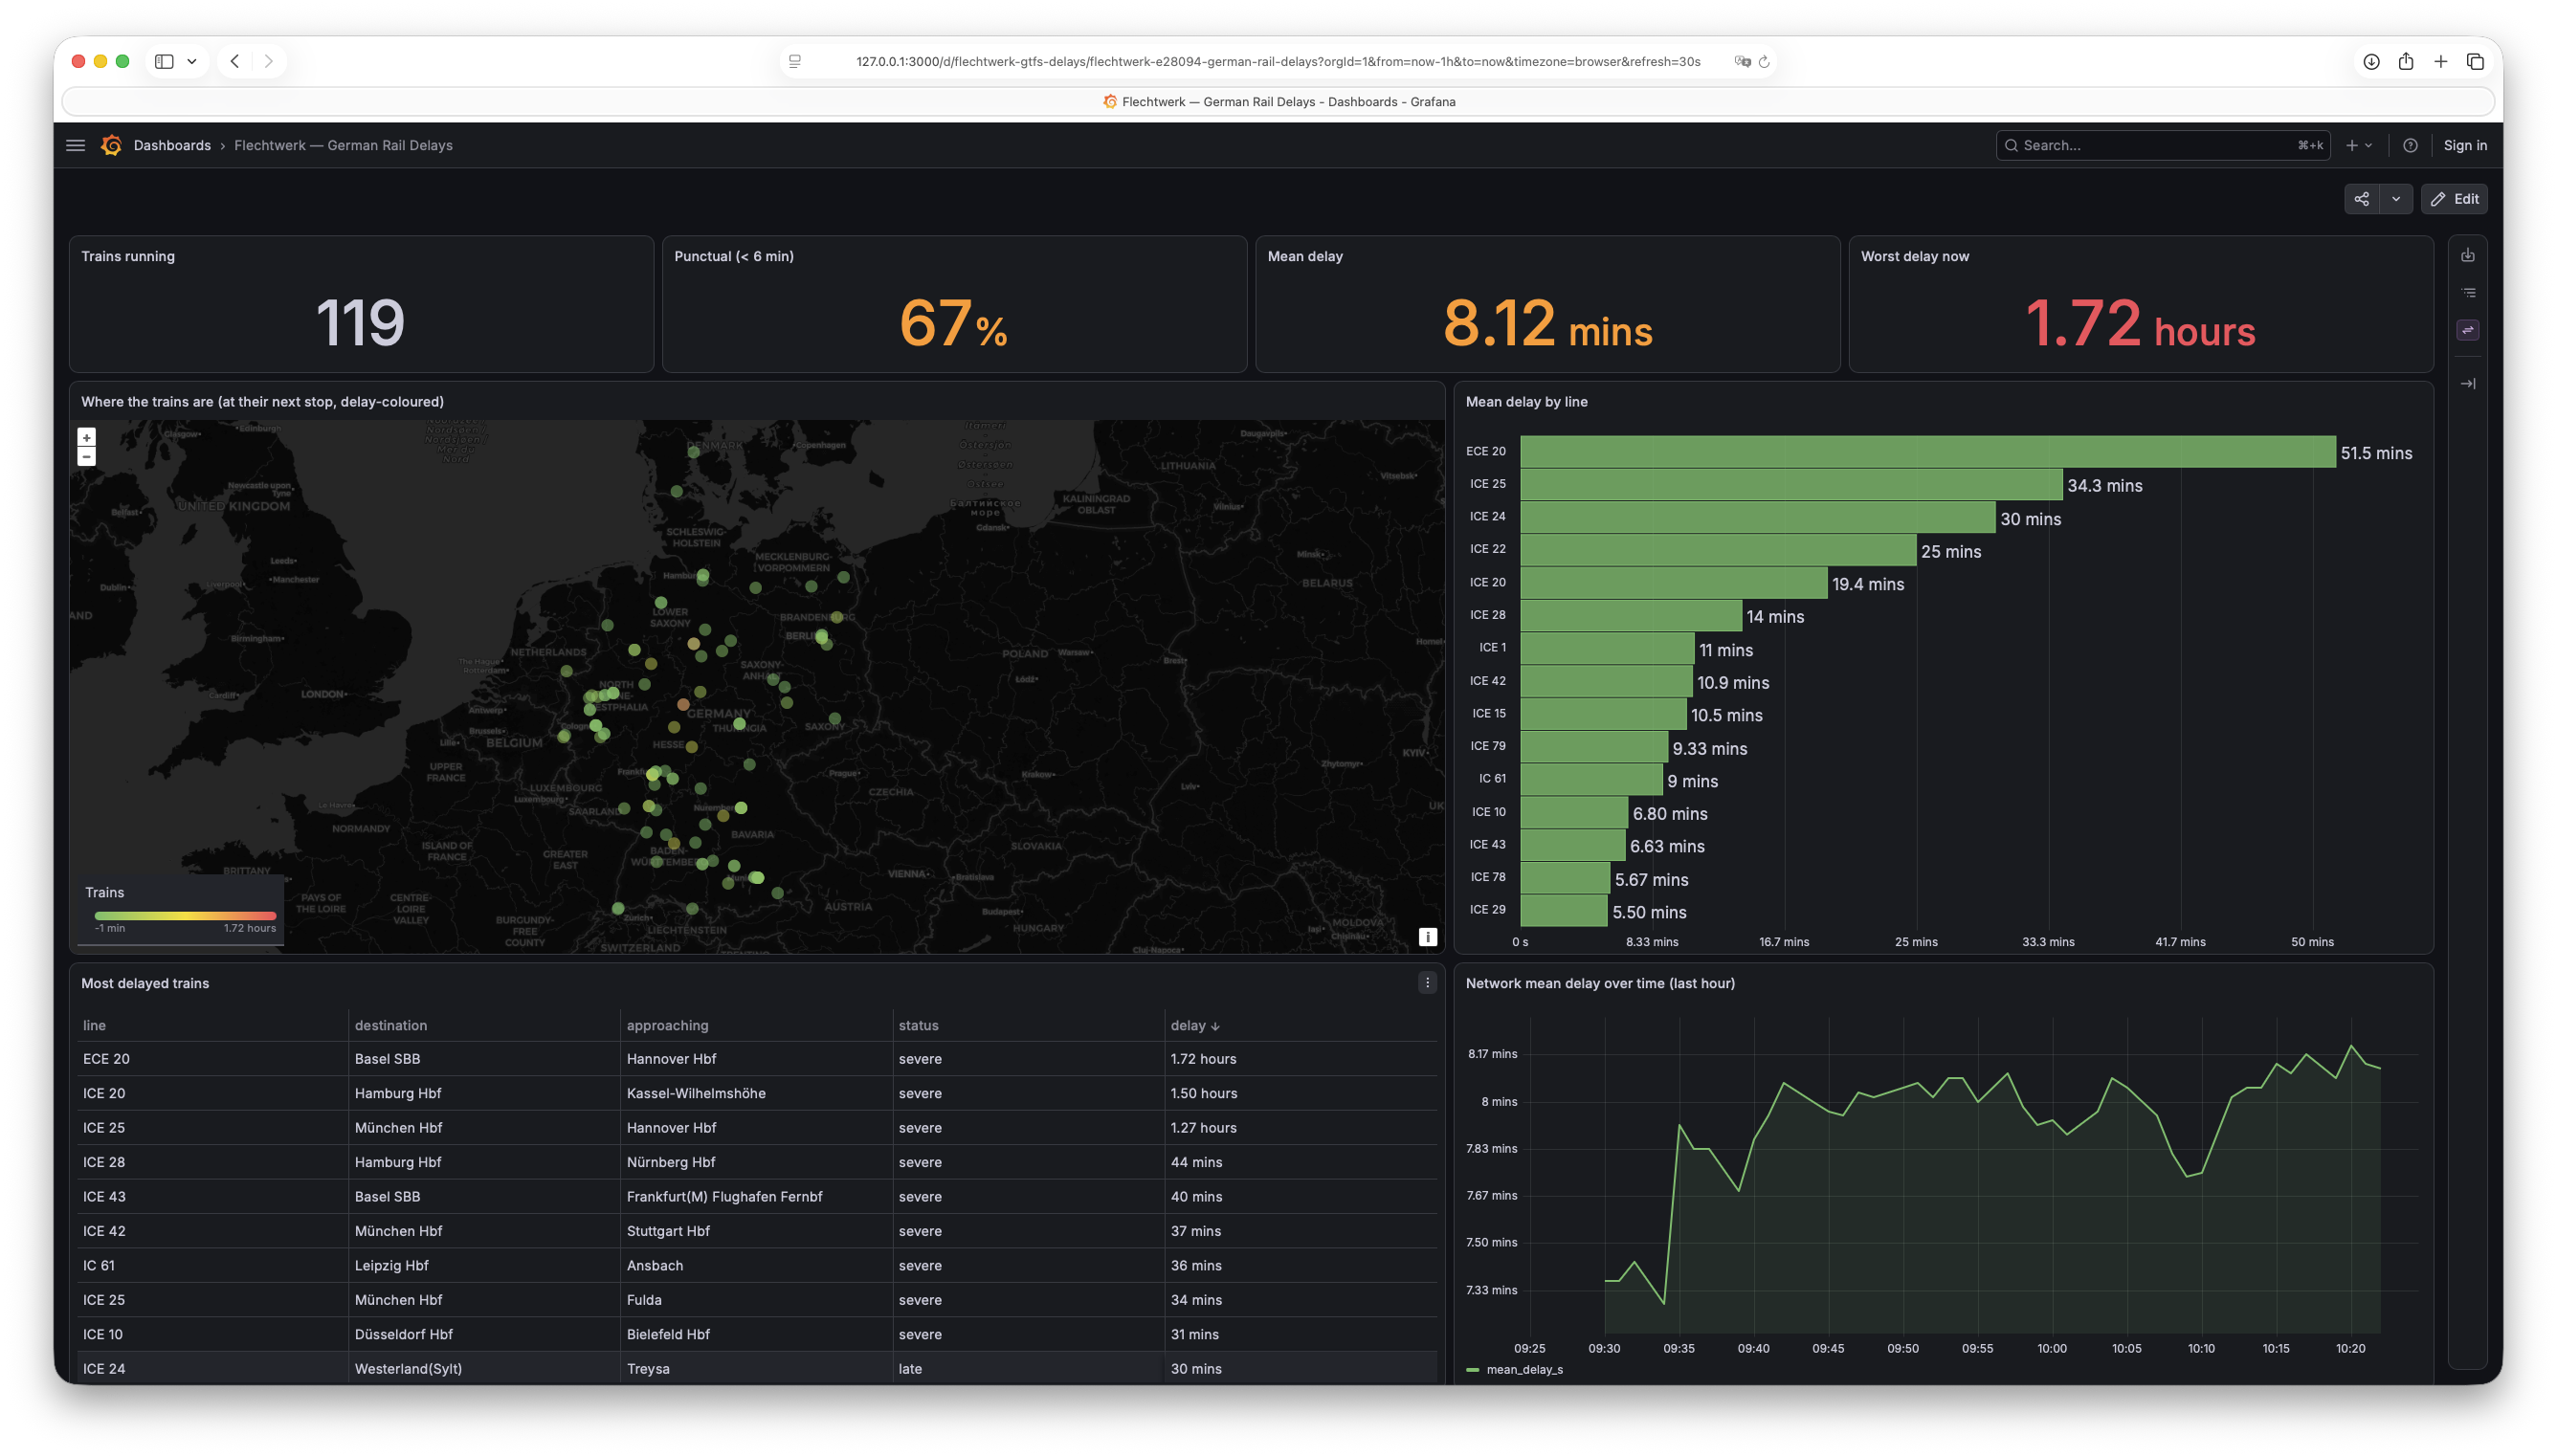
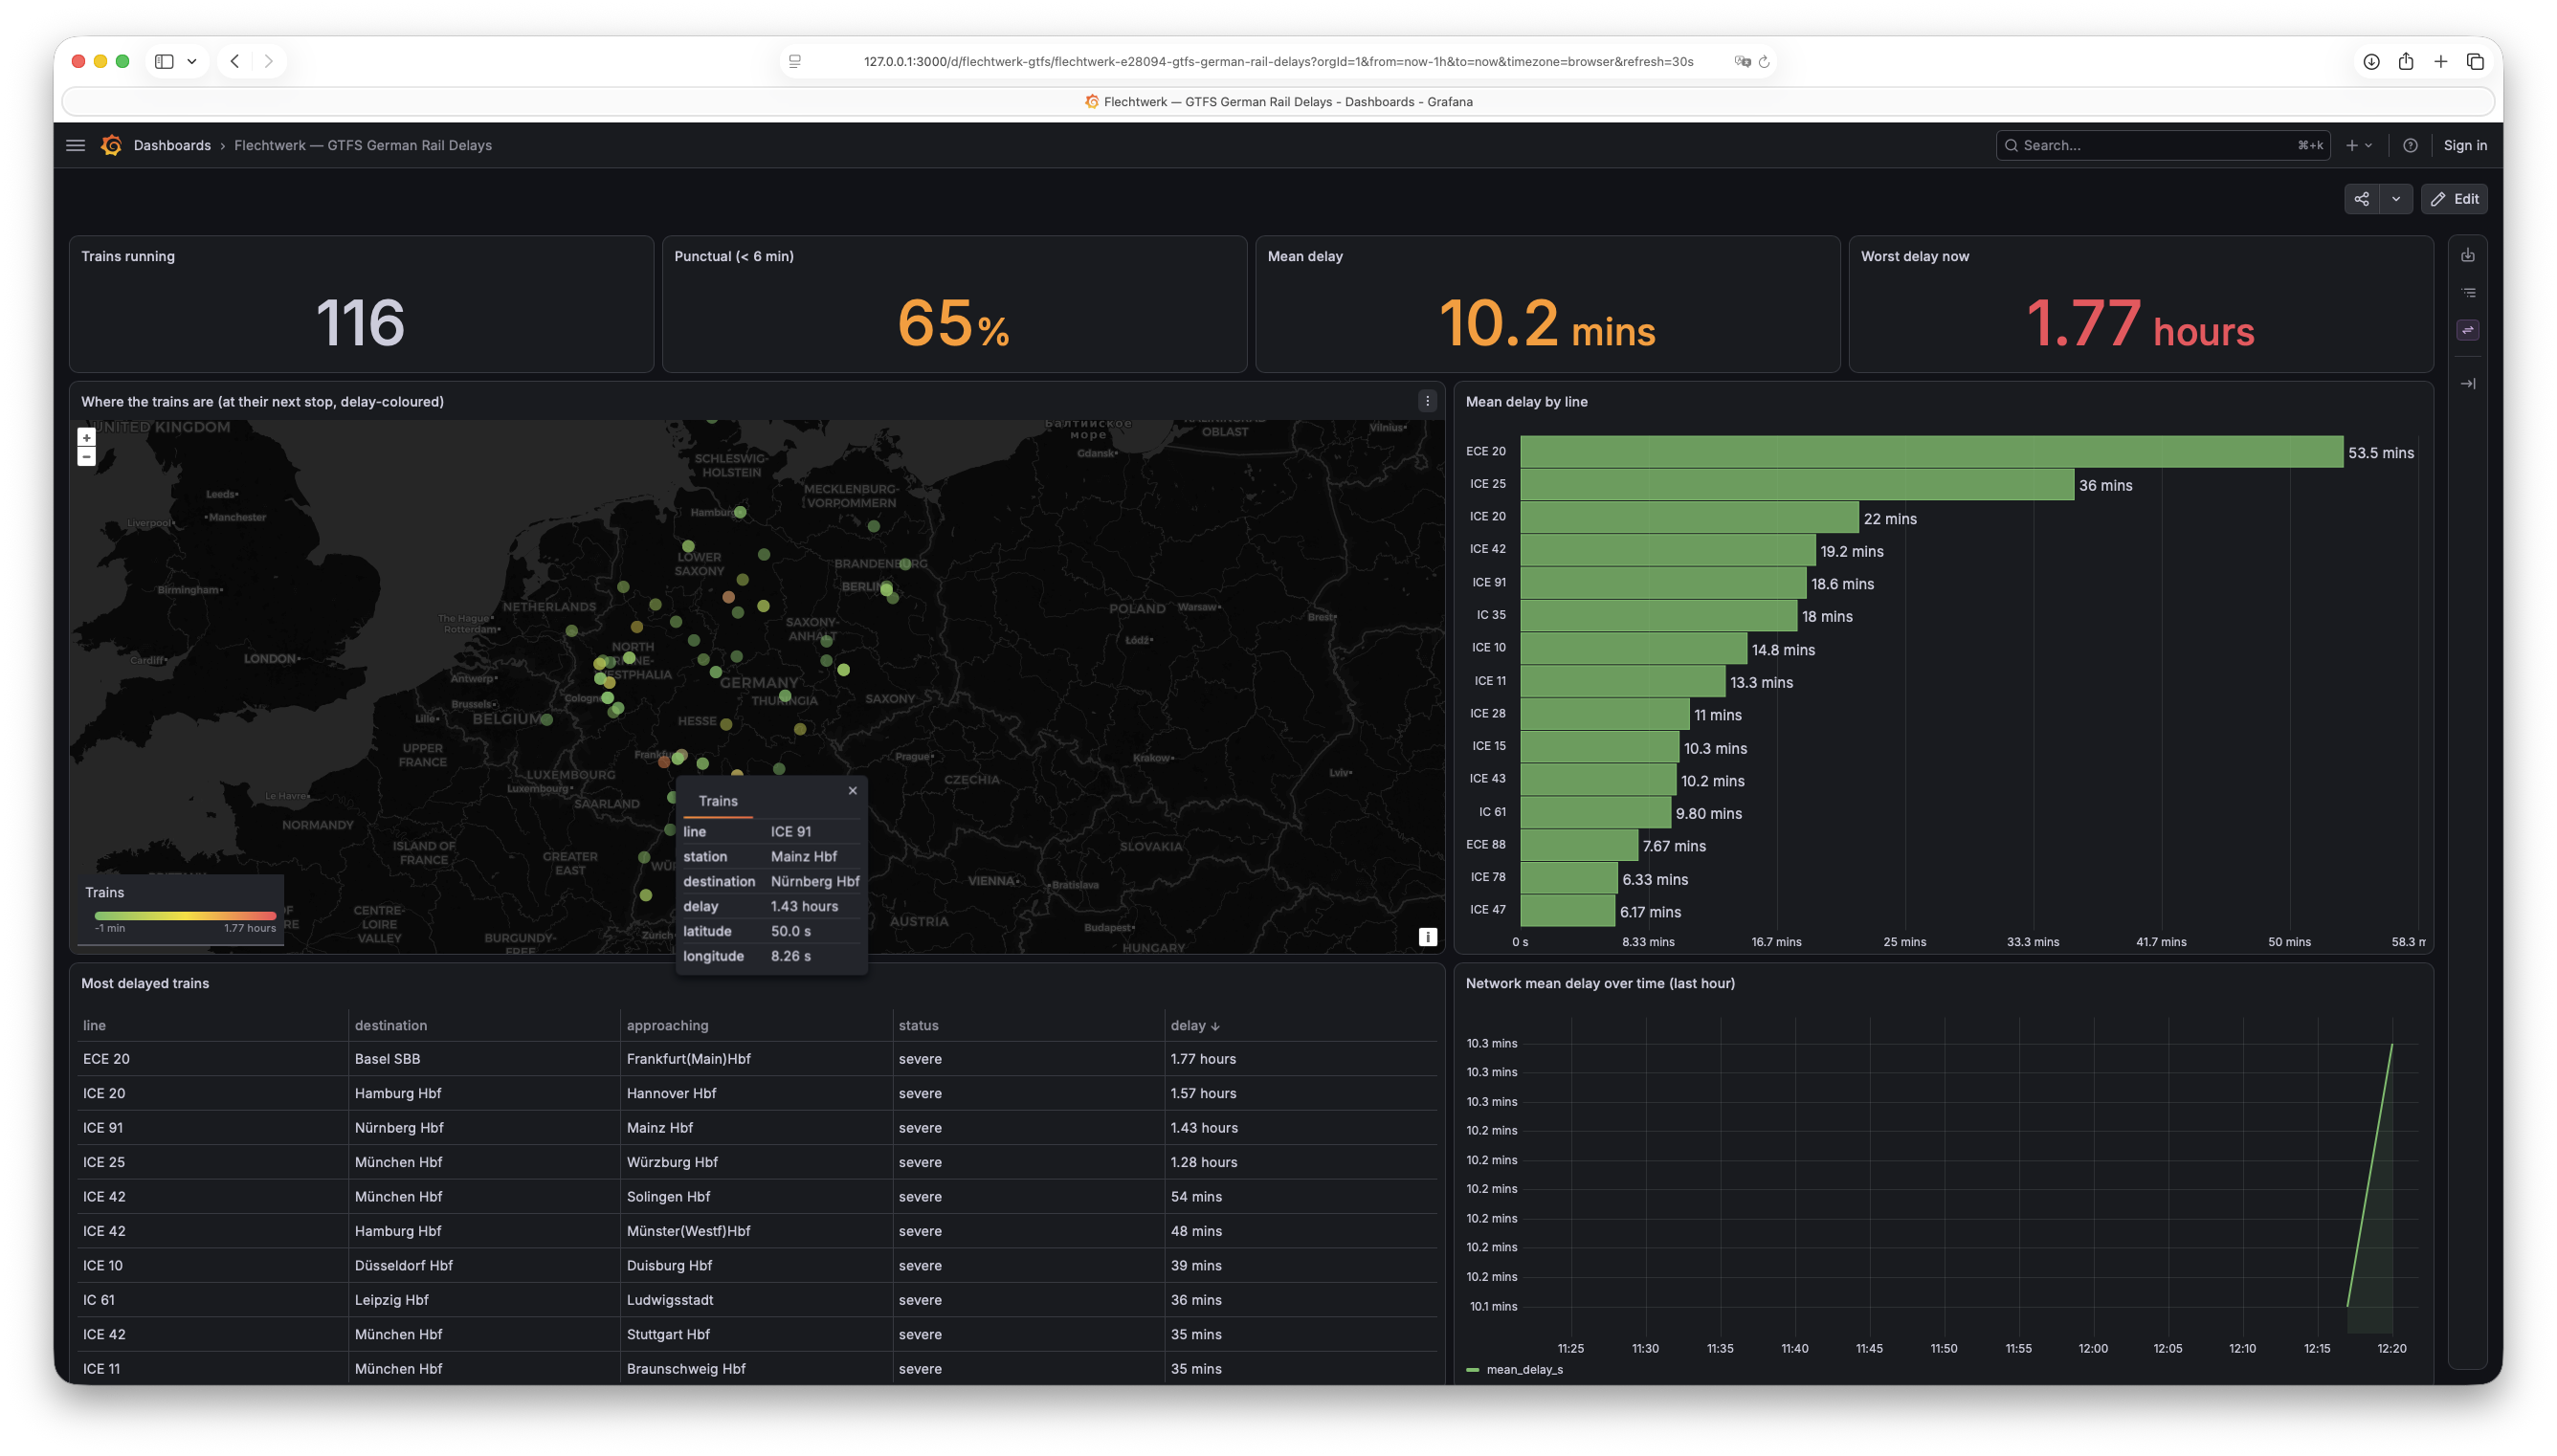
Unify example naming: one key + one display title per example
Kafka topics/groups were already consistent (<key>-*); folders, Grafana
dashboards, README titles and ClickHouse tables were not. Now every name
derives from the example's key and title (scheme codified in CLAUDE.md):

- Rename gtfs_delay_monitor -> gtfs_german_rail_delays: the example is
  titled "GTFS German Rail Delays" everywhere (README H1, dashboard file
  + title, root README); poe keys trains -> gtfs; dashboard uid
  flechtwerk-gtfs-delays -> flechtwerk-gtfs, matching its siblings
- Prefix the adsb boundary tables with their pipeline key:
  adsb_world_boundaries(_dict), adsb_region_boundaries,
  adsb_region_adm{1..5}_dict
- Drop "Live" from the ADS-B Aviation Events dashboard title (now matches
  its filename) and "Stage" from the ClickHouse sink README H1
- Fix stale dotted topic names in docs and poe help texts (adsb.raw ->
  adsb-raw etc.) and the outdated quickstart list in CLAUDE.md

diff --git a/examples/adsb_flight_tracker/tests/integration/boundaries_integration_test.py b/examples/adsb_flight_tracker/tests/integration/boundaries_integration_test.py
@@ -41,15 +41,15 @@ def _ddl(user: str, password: str) -> list[str]:
     """
     src = f"USER '{user}' PASSWORD '{password}'"
     return [
-        f"CREATE TABLE flechtwerk.world_boundaries (geometry {_GEOM}, country String, iso3 String, "
+        f"CREATE TABLE flechtwerk.adsb_world_boundaries (geometry {_GEOM}, country String, iso3 String, "
         "loaded_at DateTime) ENGINE = MergeTree ORDER BY iso3",
-        f"CREATE DICTIONARY flechtwerk.world_boundaries_dict (geometry {_GEOM}, country String, iso3 String) "
-        f"PRIMARY KEY geometry SOURCE(CLICKHOUSE(TABLE 'world_boundaries' DB 'flechtwerk' {src})) "
+        f"CREATE DICTIONARY flechtwerk.adsb_world_boundaries_dict (geometry {_GEOM}, country String, iso3 String) "
+        f"PRIMARY KEY geometry SOURCE(CLICKHOUSE(TABLE 'adsb_world_boundaries' DB 'flechtwerk' {src})) "
         "LIFETIME(0) LAYOUT(POLYGON(STORE_POLYGON_KEY_COLUMN 1))",
-        f"CREATE TABLE flechtwerk.region_boundaries (geometry {_GEOM}, name String, iso3 String, "
+        f"CREATE TABLE flechtwerk.adsb_region_boundaries (geometry {_GEOM}, name String, iso3 String, "
         "admin_level LowCardinality(String), loaded_at DateTime) ENGINE = MergeTree ORDER BY (iso3, name)",
         *(f"CREATE DICTIONARY {region_dict(level)} (geometry {_GEOM}, name String) PRIMARY KEY geometry "
-          f"SOURCE(CLICKHOUSE(QUERY 'SELECT geometry, name FROM flechtwerk.region_boundaries WHERE admin_level = ''{level}''' {src})) "
+          f"SOURCE(CLICKHOUSE(QUERY 'SELECT geometry, name FROM flechtwerk.adsb_region_boundaries WHERE admin_level = ''{level}''' {src})) "
           "LIFETIME(0) LAYOUT(POLYGON(STORE_POLYGON_KEY_COLUMN 1))"
           for level in ADMIN_LEVELS),
     ]
@@ -66,14 +66,14 @@ async def test_staged_hierarchical_reverse_geocoder_on_real_clickhouse(clickhous
         for statement in _ddl(clickhouse["user"], clickhouse["password"]):
             (await ch.post("/", content=statement)).raise_for_status()
         rows = [
-            ("world_boundaries", {"geometry": _BIG, "country": "Testland", "iso3": "TST", "loaded_at": 1_700_000_000}),
-            ("region_boundaries", {"geometry": _BIG, "name": "Bigland", "iso3": "TST",
+            ("adsb_world_boundaries", {"geometry": _BIG, "country": "Testland", "iso3": "TST", "loaded_at": 1_700_000_000}),
+            ("adsb_region_boundaries", {"geometry": _BIG, "name": "Bigland", "iso3": "TST",
                                    "admin_level": "ADM1", "loaded_at": 1_700_000_000}),
-            ("region_boundaries", {"geometry": _SMALL, "name": "Smalltown", "iso3": "TST",
+            ("adsb_region_boundaries", {"geometry": _SMALL, "name": "Smalltown", "iso3": "TST",
                                    "admin_level": "ADM2", "loaded_at": 1_700_000_000}),
-            ("region_boundaries", {"geometry": _TWIN1, "name": "Twinvale", "iso3": "TST",
+            ("adsb_region_boundaries", {"geometry": _TWIN1, "name": "Twinvale", "iso3": "TST",
                                    "admin_level": "ADM1", "loaded_at": 1_700_000_000}),
-            ("region_boundaries", {"geometry": _TWIN2, "name": "Twinvale", "iso3": "TST",
+            ("adsb_region_boundaries", {"geometry": _TWIN2, "name": "Twinvale", "iso3": "TST",
                                    "admin_level": "ADM2", "loaded_at": 1_700_000_000}),
         ]
         for table, row in rows:

diff --git a/examples/adsb_flight_tracker/boundaries.py b/examples/adsb_flight_tracker/boundaries.py
@@ -4,7 +4,7 @@ Reverse geocoding is **staged**, driven by where the aircraft actually are (not 
 region you poll), so an aircraft over *any* country gets a fine label:
 
 1. **World map (all countries).** At startup this loader downloads a single small global
-   ADM0 file (Natural Earth admin-0) into ``world_boundaries_dict`` — a point → its
+   ADM0 file (Natural Earth admin-0) into ``adsb_world_boundaries_dict`` — a point → its
    country. The enrich stage uses it to detect which country each aircraft is over.
 2. **Per-country maps, just-in-time.** When enrich sees traffic over a country it has no
    fine map for, it writes that country's ISO-3 code to the ``adsb-countries`` topic. This
@@ -72,19 +72,19 @@ MAX_AGE_HOURS = 24 * 7
 WORLD_MAX_AGE_HOURS = 24 * 30
 """Reload the world map when it is older than this (a month) or absent — it changes rarely."""
 
-WORLD_TABLE = "flechtwerk.world_boundaries"
-WORLD_DICT = "flechtwerk.world_boundaries_dict"
+WORLD_TABLE = "flechtwerk.adsb_world_boundaries"
+WORLD_DICT = "flechtwerk.adsb_world_boundaries_dict"
 """Global ADM0 polygon dictionary (point → country); the enrich stage's country detector."""
-BOUNDARY_TABLE = "flechtwerk.region_boundaries"
+BOUNDARY_TABLE = "flechtwerk.adsb_region_boundaries"
 """All countries' admin areas at all levels (tagged by ``iso3`` + ``admin_level``), the
 source table behind the per-level dictionaries."""
 
 
 def region_dict(level: str) -> str:
     """The per-level polygon dictionary name for a geoBoundaries admin level (e.g. ``ADM3``
-    → ``flechtwerk.region_adm3_dict``). One dict per level so a point resolves at *each*
+    → ``flechtwerk.adsb_region_adm3_dict``). One dict per level so a point resolves at *each*
     level — a single polygon dict returns only the finest containing polygon."""
-    return f"flechtwerk.region_{level.lower()}_dict"
+    return f"flechtwerk.adsb_region_{level.lower()}_dict"
 
 
 def _multipolygon(geometry: dict[str, Any]) -> list:
@@ -108,7 +108,7 @@ def _features(geojson: dict[str, Any]) -> list[dict[str, Any]]:
 
 
 def world_rows(geojson: dict[str, Any], loaded_at: int) -> list[dict[str, Any]]:
-    """Project a Natural Earth admin-0 FeatureCollection into ``world_boundaries`` rows.
+    """Project a Natural Earth admin-0 FeatureCollection into ``adsb_world_boundaries`` rows.
 
     One row per country: the normalised geometry, its ``NAME`` (country name) and
     ``ADM0_A3`` (ISO-3). Pure and I/O-free. ``loaded_at`` is Unix seconds.
@@ -126,7 +126,7 @@ def world_rows(geojson: dict[str, Any], loaded_at: int) -> list[dict[str, Any]]:
 
 
 def boundary_rows(geojson: dict[str, Any], iso3: str, admin_level: str, loaded_at: int) -> list[dict[str, Any]]:
-    """Project a per-country geoBoundaries FeatureCollection into ``region_boundaries`` rows.
+    """Project a per-country geoBoundaries FeatureCollection into ``adsb_region_boundaries`` rows.
 
     One row per admin area: the normalised geometry, its ``shapeName``, the owning country's
     ISO-3 (for per-country replacement/freshness), and the ``admin_level`` this
@@ -213,7 +213,7 @@ class CountryLoader(Extractor):
         return response.json()
 
     async def _ensure_world(self) -> None:
-        """Download the world ADM0 map into ``world_boundaries`` if absent or stale, then
+        """Download the world ADM0 map into ``adsb_world_boundaries`` if absent or stale, then
         reload its dictionary. Called at startup and re-checked on every country poll."""
         if await self._fresh(WORLD_TABLE, "1", WORLD_MAX_AGE_HOURS):
             return

diff --git a/examples/adsb_flight_tracker/tests/runner_test.py b/examples/adsb_flight_tracker/tests/runner_test.py
@@ -303,7 +303,7 @@ async def test_country_loader_runs_through_the_extractor_runner() -> None:
     await runner.poll_one(runner.entries["DEU"])
 
     assert producer.sent == []                                              # no data message emitted
-    assert any("SYSTEM RELOAD DICTIONARY " in s and "region_adm" in s for s in statements)  # a country map loaded
+    assert any("SYSTEM RELOAD DICTIONARY " in s and "adsb_region_adm" in s for s in statements)  # a country map loaded
     assert await runner.tasks[0].store.get("DEU") is not None              # the State page committed
 
 

diff --git a/CLAUDE.md b/CLAUDE.md
@@ -30,8 +30,9 @@ uv run poe cov              # every tier + coverage report
 uv run poe setup-<example>  # create topics / seed config / apply schema
 uv run poe run-<example>    # run one example against the shared stack
 uv run poe <example>        # quickstart: setup + run in one command, for the
-                            # self-contained examples (adsb, chaos, fermentation);
-                            # clickhouse_sink has none — it consumes example 1's output
+                            # self-contained examples (adsb, chaos, fermentation,
+                            # gdelt, gtfs); clickhouse_sink has none — it consumes
+                            # example 1's output
 ```
 
 ## The shared stack
@@ -115,9 +116,19 @@ setup-time twin: shared ops helpers each `setup.py` imports (e.g.
 names a leader before the broker finishes becoming one, so the first produce
 retries once; metadata-level waiting can't close that window).
 
-Its Grafana dashboard, when it ships one, lives under `grafana/dashboards/` with
-a hyphenated name (e.g. `adsb-flight-tracker.json`); its poe targets are
-`setup-<name>` / `run-<name>`; its host metrics port follows the allocation in
+**Naming**: every example has one **key** — its Kafka prefix (`adsb`, `gdelt`,
+`gtfs`, `fermentation`, `chaos`; the sink's ops key is `sink`) — and one
+**display title** (`ADS-B Flight Tracker`, `GTFS German Rail Delays`, …), and
+every other name derives from those two: topics and consumer groups are
+`<key>-*`; ClickHouse tables are `<key>_*`, prefixed by the pipeline the data
+belongs to (which is why the sink writes `adsb_positions`); the folder is
+snake_case(title); the Grafana dashboard file is kebab-case(title) under
+`grafana/dashboards/`, its title `Flechtwerk — <Title>`, its uid
+`flechtwerk-<key>` (a secondary dashboard suffixes it: `flechtwerk-adsb-events`);
+poe targets are `setup-<key>` / `run-<key>[-<stage>]` / quickstart `<key>`; the
+Prometheus `example` label is the folder name. A README H1 is the display
+title, optionally followed by an em-dash tagline (`Chaos Harness — an
+Exactly-Once Proof`). An example's host metrics port follows the allocation in
 `prometheus/prometheus.yml` (`9101` adsb ingest + `9105` adsb enrich + `9106` adsb
 conflict + `9107` adsb boundary loader, `9102` sink, `9103` fermentation monitor +
 `9104` fermentation bridge, `9108`–`9111` gdelt ingest/coverage/stories/sink, `9112`
@@ -129,14 +140,14 @@ processes. Reverse geocoding is **staged and traffic-driven** over a stack of Cl
 `POLYGON` dictionaries (no Nominatim/PostGIS on the reverse path): the loader downloads a
 global ADM0 **world map** at startup (`__aenter__`, Natural Earth admin-0 — geoBoundaries'
 own global ADM0/CGAZ is ~400 MB, too heavy), and enrich detects each aircraft's country
-against it, writing that ISO-3 to the compacted `adsb.countries` topic; the loader consumes
+against it, writing that ISO-3 to the compacted `adsb-countries` topic; the loader consumes
 those as its poll targets and downloads **all** admin levels that country publishes
-(geoBoundaries ADM1…ADM5) into one `region_adm{n}_dict` each (all from the single
-`region_boundaries` table filtered by level), just-in-time. enrich `dictGet`s every level
+(geoBoundaries ADM1…ADM5) into one `adsb_region_adm{n}_dict` each (all from the single
+`adsb_region_boundaries` table filtered by level), just-in-time. enrich `dictGet`s every level
 for a point and concatenates the hits into a hierarchical label (`Le Bourget; Marne; Grand
 Est`) — one dict per level because a polygon dict returns only the finest containing
 polygon. **Nothing is seeded** — `setup.py` only creates topics + schema; a user requests a
-poll region with `uv run poe request-region "<name>"` (→ `request.py` → `adsb.regions`),
+poll region with `uv run poe request-region "<name>"` (→ `request.py` → `adsb-regions`),
 and forward geocoding of that name→centre uses public Nominatim (`ingest`). An extractor
 takes one config record per poll target, keyed on a compacted config topic (any producer,
 Kafbat included, works too); a transformer consumes a partitioned input topic instead.

diff --git a/README.md b/README.md
@@ -28,9 +28,9 @@ published package, exercised exactly the way a consumer would use it.
   <a href="examples/gdelt_news_stories"><img src="assets/gdelt-grafana.png" width="49%" alt="GDELT News Stories — the live Grafana dashboard (breaking-news velocity, tone map, top stories)"></a>
 </p>
 <p align="center">
-  <a href="examples/gtfs_delay_monitor"><img src="assets/gtfs-grafana.png" width="49%" alt="German Rail Delays — the live Grafana dashboard (delay-coloured map of ICE/IC trains, punctuality, most-delayed trains, network-delay timeseries)"></a>
+  <a href="examples/gtfs_german_rail_delays"><img src="assets/gtfs-grafana.png" width="49%" alt="GTFS German Rail Delays — the live Grafana dashboard (delay-coloured map of ICE/IC trains, punctuality, most-delayed trains, network-delay timeseries)"></a>
 </p>
-<p align="center"><em>Three of the examples, live in Grafana — <a href="examples/adsb_flight_tracker">ADS-B Flight Tracker</a>, <a href="examples/gdelt_news_stories">GDELT News Stories</a>, and <a href="examples/gtfs_delay_monitor">German Rail Delays</a>.</em></p>
+<p align="center"><em>Three of the examples, live in Grafana — <a href="examples/adsb_flight_tracker">ADS-B Flight Tracker</a>, <a href="examples/gdelt_news_stories">GDELT News Stories</a>, and <a href="examples/gtfs_german_rail_delays">GTFS German Rail Delays</a>.</em></p>
 
 ## What's Inside
 
@@ -44,7 +44,7 @@ scenario under `examples/`:
 | 3 | [`chaos_harness`](examples/chaos_harness) | an executable exactly-once proof — SIGKILL a stage mid-batch, assert zero dupes/gaps | `chaos` |
 | 4 | [`fermentation_monitor`](examples/fermentation_monitor) | the `MqttExtractor` bridge (ACK only after Kafka) + a stateful gravity monitor | `fermentation` |
 | 5 | [`gdelt_news_stories`](examples/gdelt_news_stories) | batch-file firehose ingestion (a resume-cursor `Extractor` over the GDELT 15-min feed), a co-partitioned Events⋈Mentions join with out-of-order buffering, online clustering of articles into stories in keyed state, and config-topic (GlobalKTable-style) outlet enrichment | `gdelt` |
-| 6 | [`gtfs_delay_monitor`](examples/gtfs_delay_monitor) | a **binary (protobuf) source decoded at the edge** (Germany's GTFS-Realtime feed), a stream⋈**static-dimension** join (live delays ⋈ the schedule, co-partitioned by `trip_id` via a compacted profile topic), and a self-healing snapshot source — a live German long-distance rail **delay** monitor | `trains` |
+| 6 | [`gtfs_german_rail_delays`](examples/gtfs_german_rail_delays) | a **binary (protobuf) source decoded at the edge** (Germany's GTFS-Realtime feed), a stream⋈**static-dimension** join (live delays ⋈ the schedule, co-partitioned by `trip_id` via a compacted profile topic), and a self-healing snapshot source — a live German long-distance rail **delay** monitor | `gtfs` |
 
 Each example is self-contained under its own directory with its own README.
 
@@ -86,11 +86,11 @@ Grafana provisions dashboards tagged `flechtwerk`: **Framework Metrics** (the
 `flechtwerk_*` Prometheus metrics — messages in/out, transactions committed,
 batch sizes, state restores, config-store and ownership gauges), **Stream Data**
 (a ClickHouse datasource smoke test), and per-example dashboards — **ADS-B Flight
-Tracker** (a live map + enriched table), **ADS-B Live Aviation Events**
+Tracker** (a live map + enriched table), **ADS-B Aviation Events**
 (emergencies, rapid descents, going-dark, near-misses), **Fermentation
 Monitor** (gravity curves + alerts), **GDELT News Stories** (breaking-news
 velocity, top stories, a tone-coloured world map, coverage spread), and
-**German Rail Delays** (a delay-coloured map of ICE/IC trains, network
+**GTFS German Rail Delays** (a delay-coloured map of ICE/IC trains, network
 punctuality, most-delayed trains, a network-delay timeseries).
 
 Stages run on the host and expose Prometheus metrics on a per-example port

diff --git a/examples/adsb_flight_tracker/README.md b/examples/adsb_flight_tracker/README.md
@@ -157,7 +157,7 @@ Then watch it live at <http://localhost:3000>:
 - **Grafana → *Flechtwerk — ADS-B Flight Tracker*** — a live map, an enriched
   table (airline / type with Wikipedia links, country, vertical rate), and
   now-stats: emergencies, fastest, highest, countries in view.
-- **Grafana → *Flechtwerk — ADS-B Live Aviation Events*** — a scrolling events
+- **Grafana → *Flechtwerk — ADS-B Aviation Events*** — a scrolling events
   feed, per-type counters, a near-miss list, and per-airline / per-country
   leaderboards. This is the "stop viewing, start deriving" payoff.
 - **Grafana → *Flechtwerk — Framework Metrics*** — all four stages roll up under

diff --git a/examples/clickhouse_sink/README.md b/examples/clickhouse_sink/README.md
@@ -1,4 +1,4 @@
-# ClickHouse Sink Stage
+# ClickHouse Sink
 
 A **sink transformer**: it consumes `adsb-aircraft` (example 1's output) and
 writes each position into ClickHouse. It is the honest-semantics counterpart to